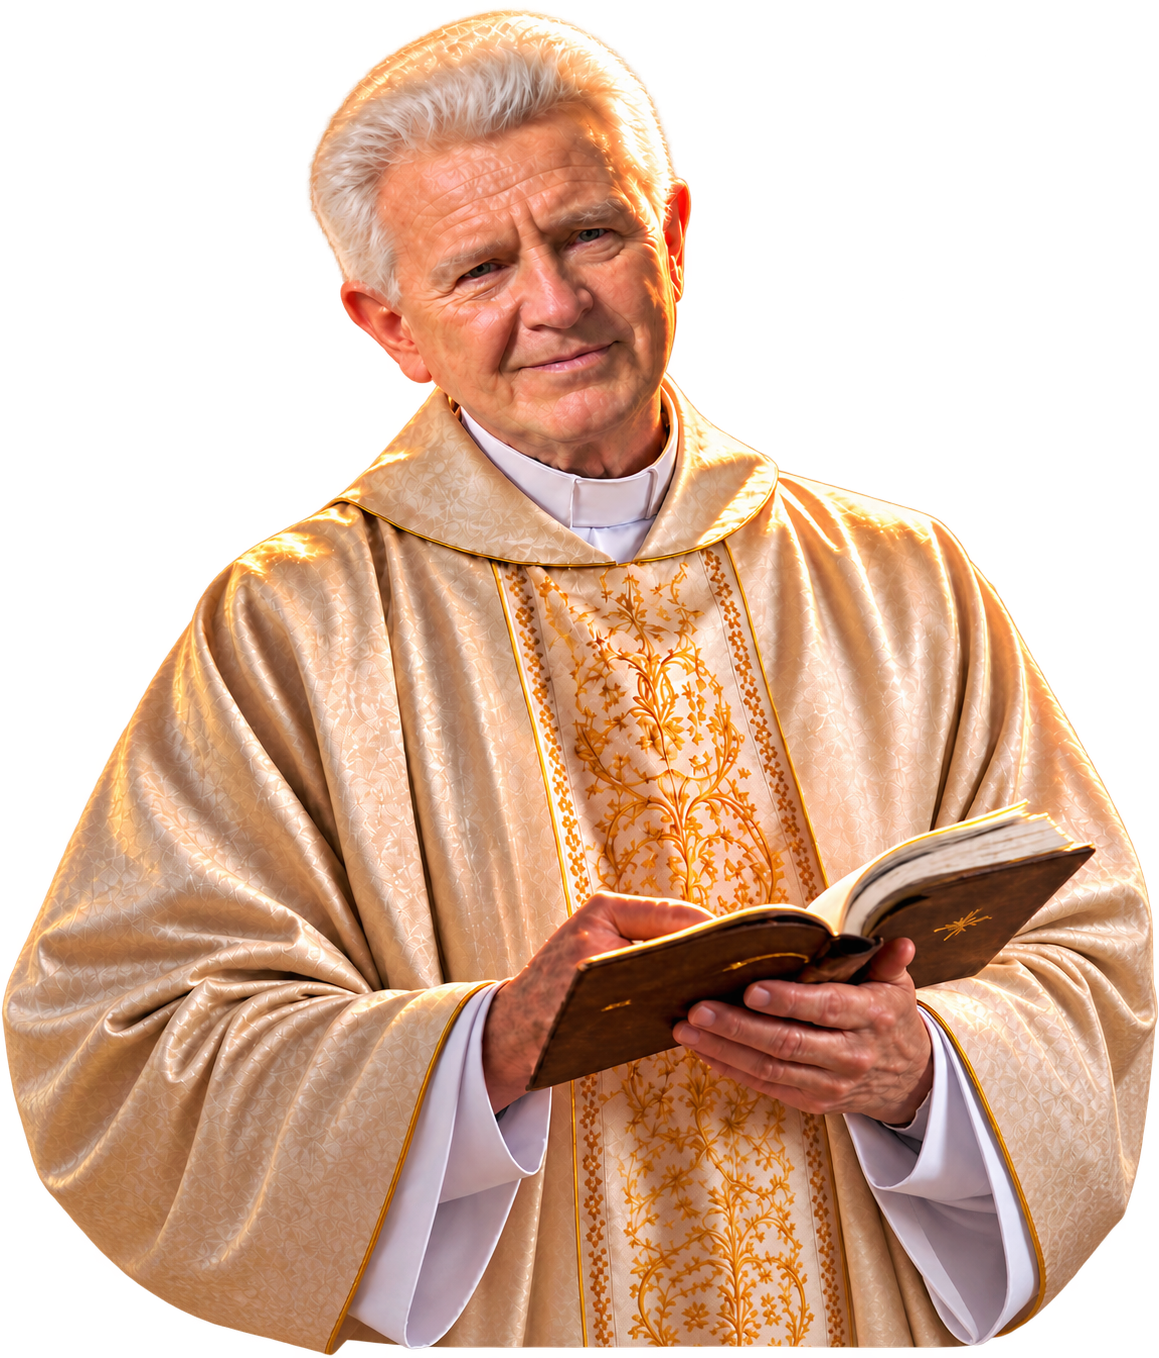
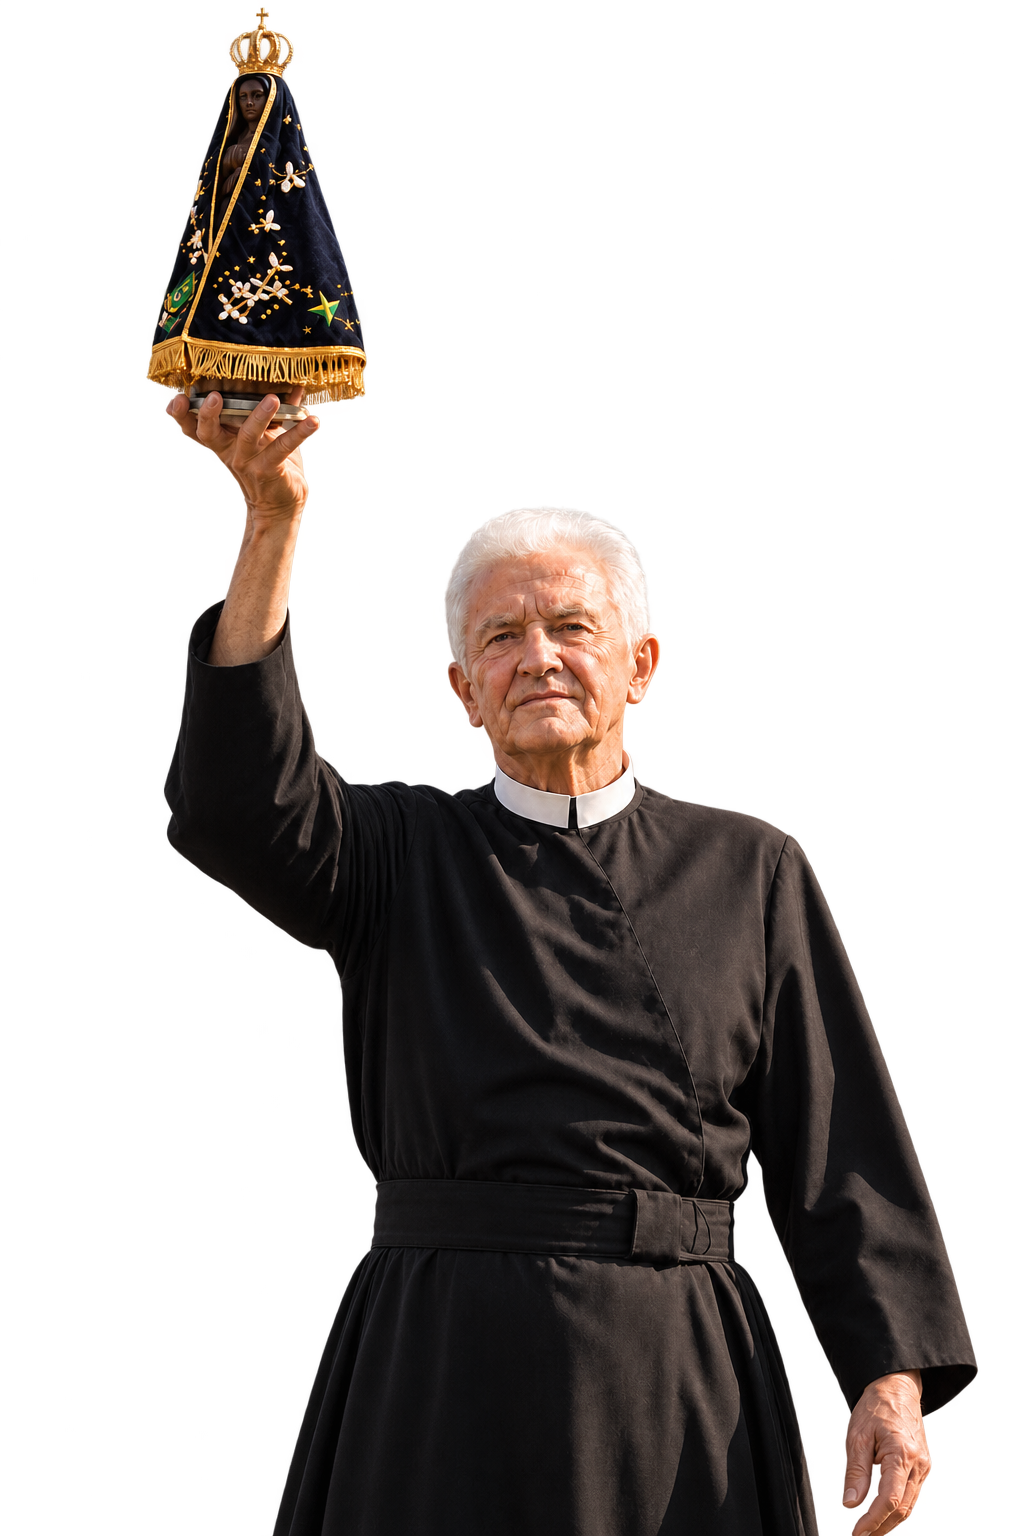
layout

diff --git a/src/components/landing-page/hero/hero-priest.tsx b/src/components/landing-page/hero/hero-priest.tsx
@@ -11,11 +11,11 @@ export function HeroPriest() {
     <MotionImage
       src="/images/webp/padre.webp"
       alt="Padre"
-      width={1159}
-      height={1358}
+      width={1024}
+      height={1536}
       priority
       sizes="(min-width: 1280px) 60vw, 100vw"
-      className="absolute bottom-0 left-1/2 z-10 h-auto w-[clamp(17.25rem,62vw+22dvh,42rem)] max-h-[80dvh] max-w-[120%] -translate-x-1/2 object-contain object-bottom xl:h-[85dvh] xl:max-h-none xl:w-auto"
+      className="absolute bottom-0 left-1/2 z-10 h-[clamp(34rem,30vw+74dvh,52rem)] max-[359px]:max-h-[91dvh] w-auto max-w-[120%] -translate-x-1/2 object-contain object-bottom xl:bottom-[-30dvh] xl:h-[130dvh] xl:w-auto"
       initial={{ opacity: 0, y: 60 }}
       animate={{ opacity: 1, y: 0 }}
       transition={{ duration: 1.8, delay: 0.3, ease: SMOOTH }}

diff --git a/src/components/landing-page/hero/hero-copy/hero-title.tsx b/src/components/landing-page/hero/hero-copy/hero-title.tsx
@@ -5,7 +5,7 @@ export function HeroTitle() {
   const [first, second] = TITLE_LINES;
 
   return (
-    <h1 className="mt-3 wrap-break-word font-display text-[clamp(4.9rem,min(26vw,1.5rem+14vw),9.25rem)] min-[360px]:text-[clamp(5.4rem,min(26vw,1.5rem+14vw),9.25rem)] font-bold uppercase leading-[0.86] tracking-[0.01em] text-[#e8dcc0] xl:text-[11vw]">
+    <h1 className="mt-3 wrap-break-word font-display text-[clamp(3.4rem,min(26vw,1.5rem+14vw),4rem)] min-[360px]:text-[clamp(4.8rem,min(26vw,1.5rem+14vw),9.25rem)] font-bold uppercase leading-[0.86] tracking-[0.01em] text-[#e8dcc0] xl:text-[11vw]">
       <AnimatedTitleLine text={first.text} baseDelay={first.delay} />
       <br />
       <AnimatedTitleLine text={second.text} baseDelay={second.delay} />

diff --git a/src/app/opengraph-image.tsx b/src/app/opengraph-image.tsx
@@ -56,14 +56,14 @@ export default async function OpengraphImage() {
       <img
         src={priestSrc}
         alt=""
-        width={520}
-        height={609}
+        width={400}
+        height={600}
         style={{
           position: "absolute",
-          right: 40,
+          right: 56,
           bottom: 0,
-          width: 520,
-          height: 609,
+          width: 400,
+          height: 600,
           objectFit: "contain",
         }}
       />

diff --git a/src/components/landing-page/hero/hero-copy/index.tsx b/src/components/landing-page/hero/hero-copy/index.tsx
@@ -4,7 +4,7 @@ import { HeroTitle } from "./hero-title";
 
 export function HeroCopy() {
   return (
-    <div className="absolute inset-0 flex flex-col justify-start px-2 pt-[9dvh] sm:px-8 xl:justify-center xl:px-16 xl:pt-0">
+    <div className="absolute inset-0 flex flex-col items-end justify-start px-3 pt-[9dvh] text-right sm:px-8 xl:items-start xl:justify-center xl:px-16 xl:pt-0 xl:text-left">
       <HeroEyebrow />
       <HeroTitle />
       <HeroTagline />

diff --git a/src/components/landing-page/hero/hero-copy/hero-eyebrow.tsx b/src/components/landing-page/hero/hero-copy/hero-eyebrow.tsx
@@ -7,7 +7,7 @@ import { EYEBROW } from "./constants";
 export function HeroEyebrow() {
   return (
     <motion.div
-      className="flex items-center gap-4"
+      className="flex flex-row-reverse items-center gap-4 xl:flex-row"
       initial={{ opacity: 0, y: 16 }}
       animate={{ opacity: 1, y: 0 }}
       transition={{ duration: 1, delay: 0.2, ease: SMOOTH }}
